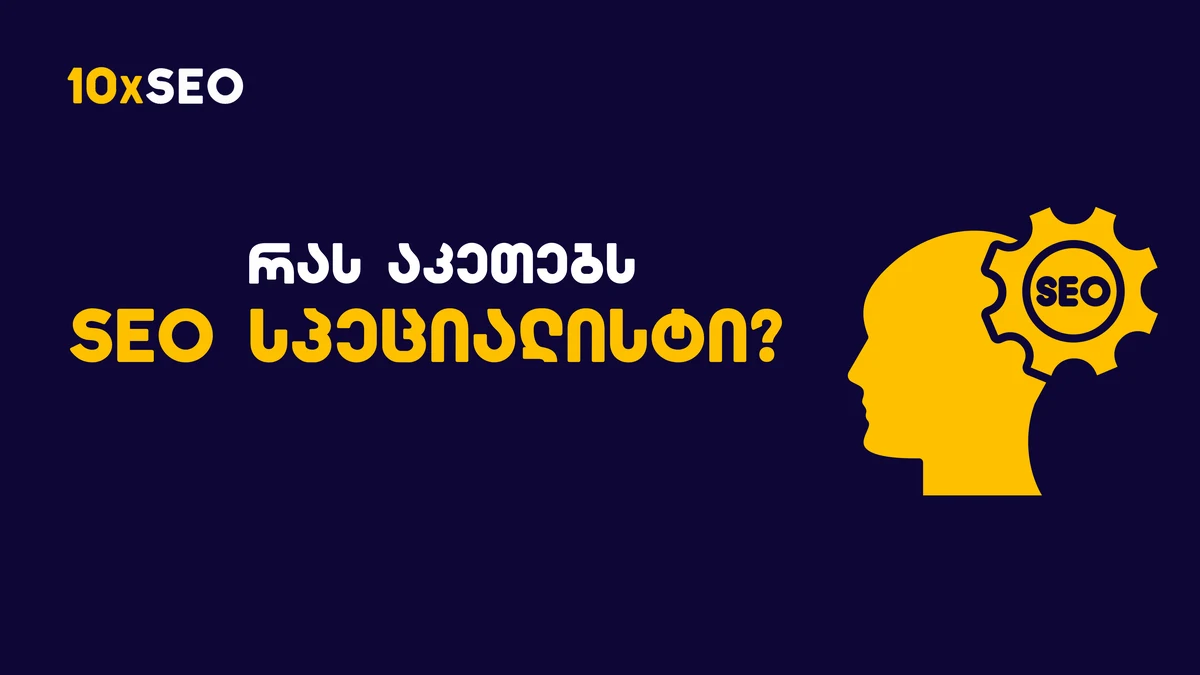
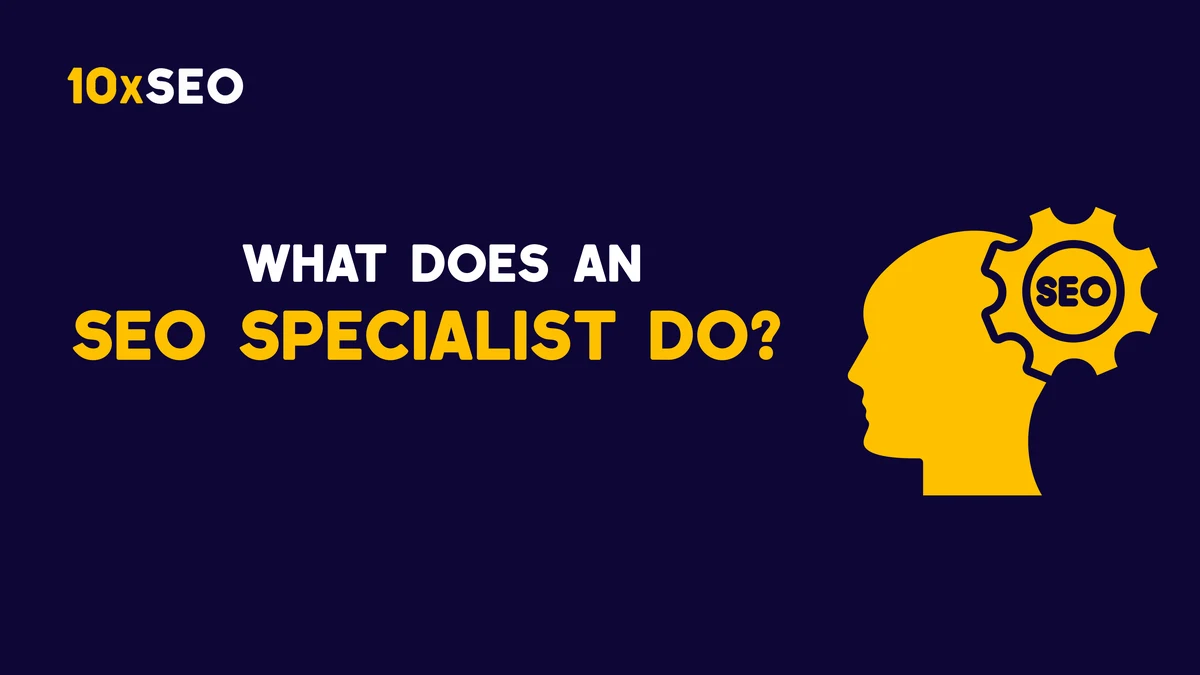
blog: English cover for seo-specialist EN post
EN version of the author's own cover design (same layout, head/gear
icon, DachiTheLynx font, white+yellow lines): 'WHAT DOES AN / SEO
SPECIALIST DO?'. Rendered from the 6000px original, text block cleared
on the flat background. Refs bumped to ?v=2 — the old EN cover (KA
copy) was already live and is edge-cached for a year.

Changed region(s): [[0.0617, 0.3422, 0.6783, 0.56]]

diff --git a/en/blog/seo-specialist.html b/en/blog/seo-specialist.html
@@ -8,7 +8,7 @@
 <link rel="icon" type="image/x-icon" href="/favicon.ico">
 <link rel="icon" type="image/png" sizes="32x32" href="/favicon-32x32.png">
 <link rel="apple-touch-icon" sizes="180x180" href="/apple-touch-icon.png">
-<link rel="preload" as="image" href="../../images/blog/seo-specialist-en.webp" fetchpriority="high">
+<link rel="preload" as="image" href="../../images/blog/seo-specialist-en.webp?v=2" fetchpriority="high">
   <title>What Does an SEO Specialist Do? A Complete Guide</title>
 <link rel="alternate" hreflang="ka" href="https://10xseo.ge/blog/seo-specialist.html">
 <link rel="alternate" hreflang="en" href="https://10xseo.ge/en/blog/seo-specialist.html">
@@ -101,12 +101,12 @@
   </style>
 
   <link rel="canonical" href="https://10xseo.ge/en/blog/seo-specialist.html">
-  <meta property="og:image" content="https://10xseo.ge/images/blog/seo-specialist-en.webp">
+  <meta property="og:image" content="https://10xseo.ge/images/blog/seo-specialist-en.webp?v=2">
   <meta property="og:image:width" content="1200">
   <meta property="og:image:height" content="675">
   <meta property="og:image:type" content="image/webp">
   <meta property="og:image:alt" content="What Does an SEO Specialist Do? A Complete Guide">
-  <meta name="twitter:image" content="https://10xseo.ge/images/blog/seo-specialist-en.webp">
+  <meta name="twitter:image" content="https://10xseo.ge/images/blog/seo-specialist-en.webp?v=2">
   <meta name="twitter:image:alt" content="What Does an SEO Specialist Do? A Complete Guide">
   <meta property="og:type" content="article">
   <meta property="og:title" content="What Does an SEO Specialist Do? A Complete Guide">
@@ -122,7 +122,7 @@
   "@type": "Article",
   "headline": "What Does an SEO Specialist Do? A Complete Guide",
   "description": "Discover what an SEO specialist actually does day-to-day. Learn about the essential tools, key responsibilities, and the skills needed to succeed in SEO.",
-  "image": "https://10xseo.ge/images/blog/seo-specialist-en.webp",
+  "image": "https://10xseo.ge/images/blog/seo-specialist-en.webp?v=2",
   "url": "https://10xseo.ge/en/blog/seo-specialist.html",
   "author": {
     "@type": "Organization",
@@ -311,7 +311,7 @@ Call Us
 
           <!-- Featured Image -->
           <div class="mb-8 rounded-2xl overflow-hidden">
-            <img src="../../images/blog/seo-specialist-en.webp" alt="What Does an SEO Specialist Do? A Complete Guide" class="w-full h-auto" fetchpriority="high" width="1200" height="675">
+            <img src="../../images/blog/seo-specialist-en.webp?v=2" alt="What Does an SEO Specialist Do? A Complete Guide" class="w-full h-auto" fetchpriority="high" width="1200" height="675">
           </div>
           <!-- Article Body -->
           <div class="prose text-body dark:text-body-dark">

diff --git a/en/index.html b/en/index.html
@@ -1567,7 +1567,7 @@ Book Consultation
 <div class="grid md:grid-cols-3 gap-6 lg:gap-8">
 <a href="blog/seo-specialist.html" class="group bg-white dark:bg-surface-dark rounded-2xl border border-gray-100 dark:border-gray-800 overflow-hidden hover:shadow-lg transition-shadow">
 <div class="aspect-[16/9] overflow-hidden">
-<img src="../images/blog/seo-specialist-en.webp" alt="What Does an SEO Specialist Do? A Complete Guide" loading="lazy" decoding="async" class="w-full h-full object-cover group-hover:scale-105 transition-transform duration-300" onerror="this.parentElement.classList.add('bg-gradient-to-br','from-primary/10','to-accent/10','dark:from-primary/20','dark:to-accent/20','flex','items-center','justify-center');this.style.display='none'" width="1200" height="630">
+<img src="../images/blog/seo-specialist-en.webp?v=2" alt="What Does an SEO Specialist Do? A Complete Guide" loading="lazy" decoding="async" class="w-full h-full object-cover group-hover:scale-105 transition-transform duration-300" onerror="this.parentElement.classList.add('bg-gradient-to-br','from-primary/10','to-accent/10','dark:from-primary/20','dark:to-accent/20','flex','items-center','justify-center');this.style.display='none'" width="1200" height="630">
 </div>
 <div class="p-5 lg:p-6">
 <div class="flex items-center gap-3 text-xs text-body/60 dark:text-body-dark/80 mb-3">

diff --git a/en/blog.html b/en/blog.html
@@ -1004,7 +1004,7 @@ Call Us
           <!-- Post: What Does an SEO Specialist Do? A Complete Guide -->
           <a href="blog/seo-specialist.html" class="blog-card group block bg-white dark:bg-surface-dark-alt rounded-2xl overflow-hidden border border-gray-100 dark:border-white/5 h-full transition-all duration-300 hover:shadow-xl">
             <div class="aspect-[16/9] overflow-hidden">
-              <img src="../images/blog/seo-specialist-en.webp" alt="What Does an SEO Specialist Do? A Complete Guide" loading="lazy" decoding="async" class="w-full h-full object-cover group-hover:scale-105 transition-transform duration-300" width="1200" height="630">
+              <img src="../images/blog/seo-specialist-en.webp?v=2" alt="What Does an SEO Specialist Do? A Complete Guide" loading="lazy" decoding="async" class="w-full h-full object-cover group-hover:scale-105 transition-transform duration-300" width="1200" height="630">
             </div>
             <div class="p-6 lg:p-8">
               <div class="flex items-center gap-2 mb-4">
